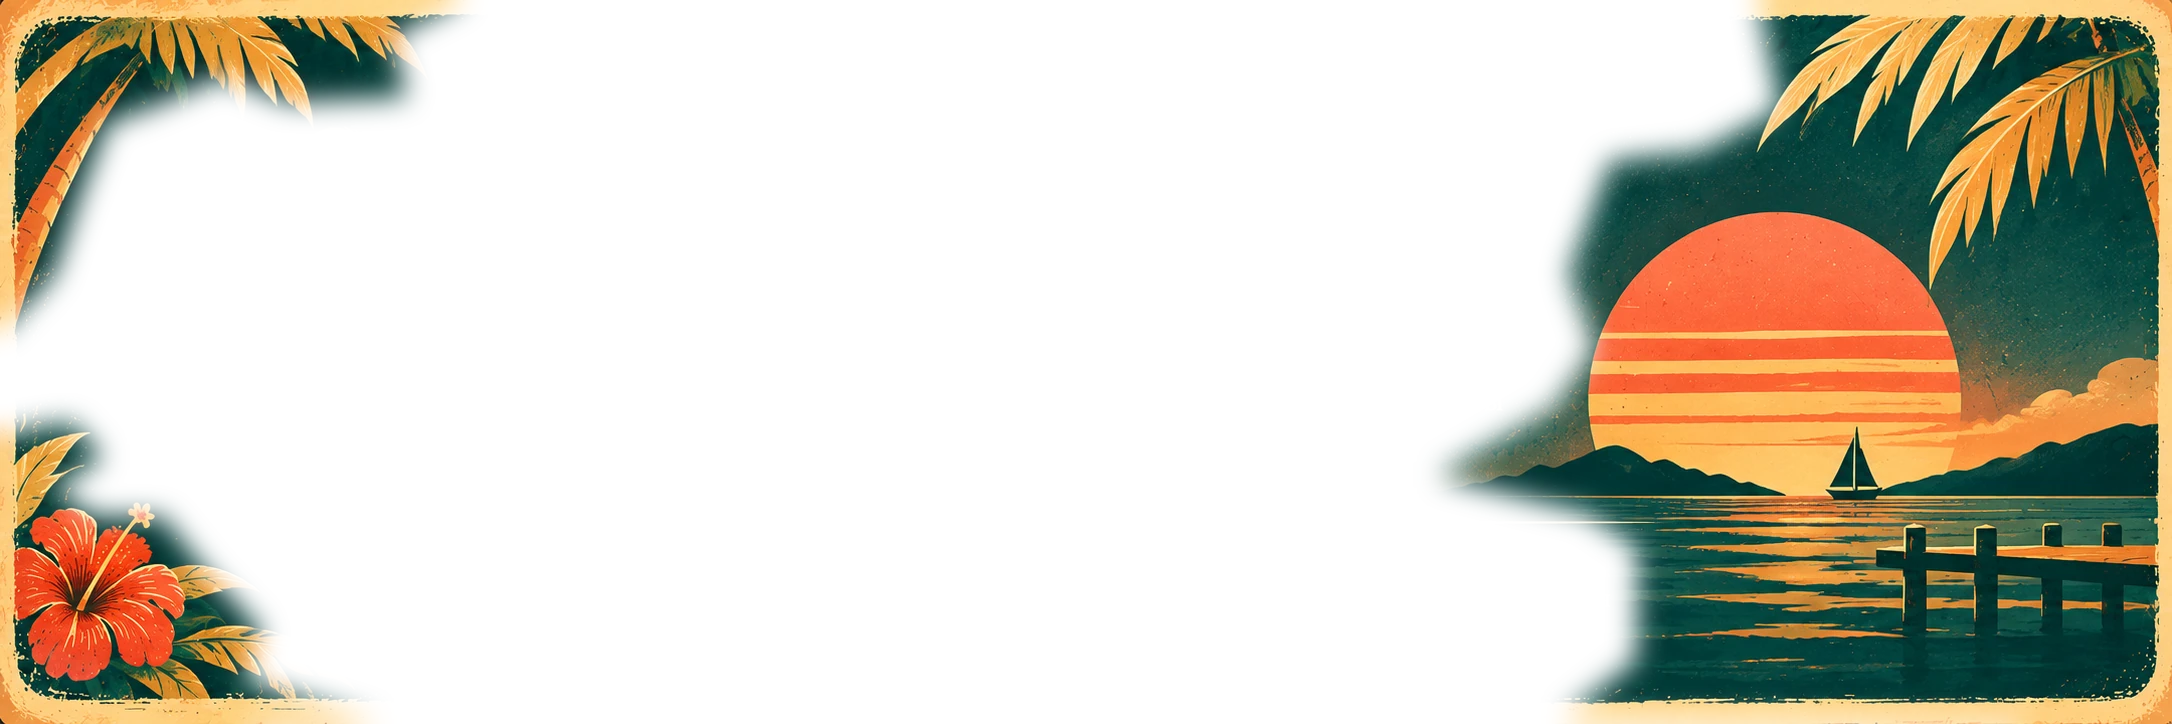
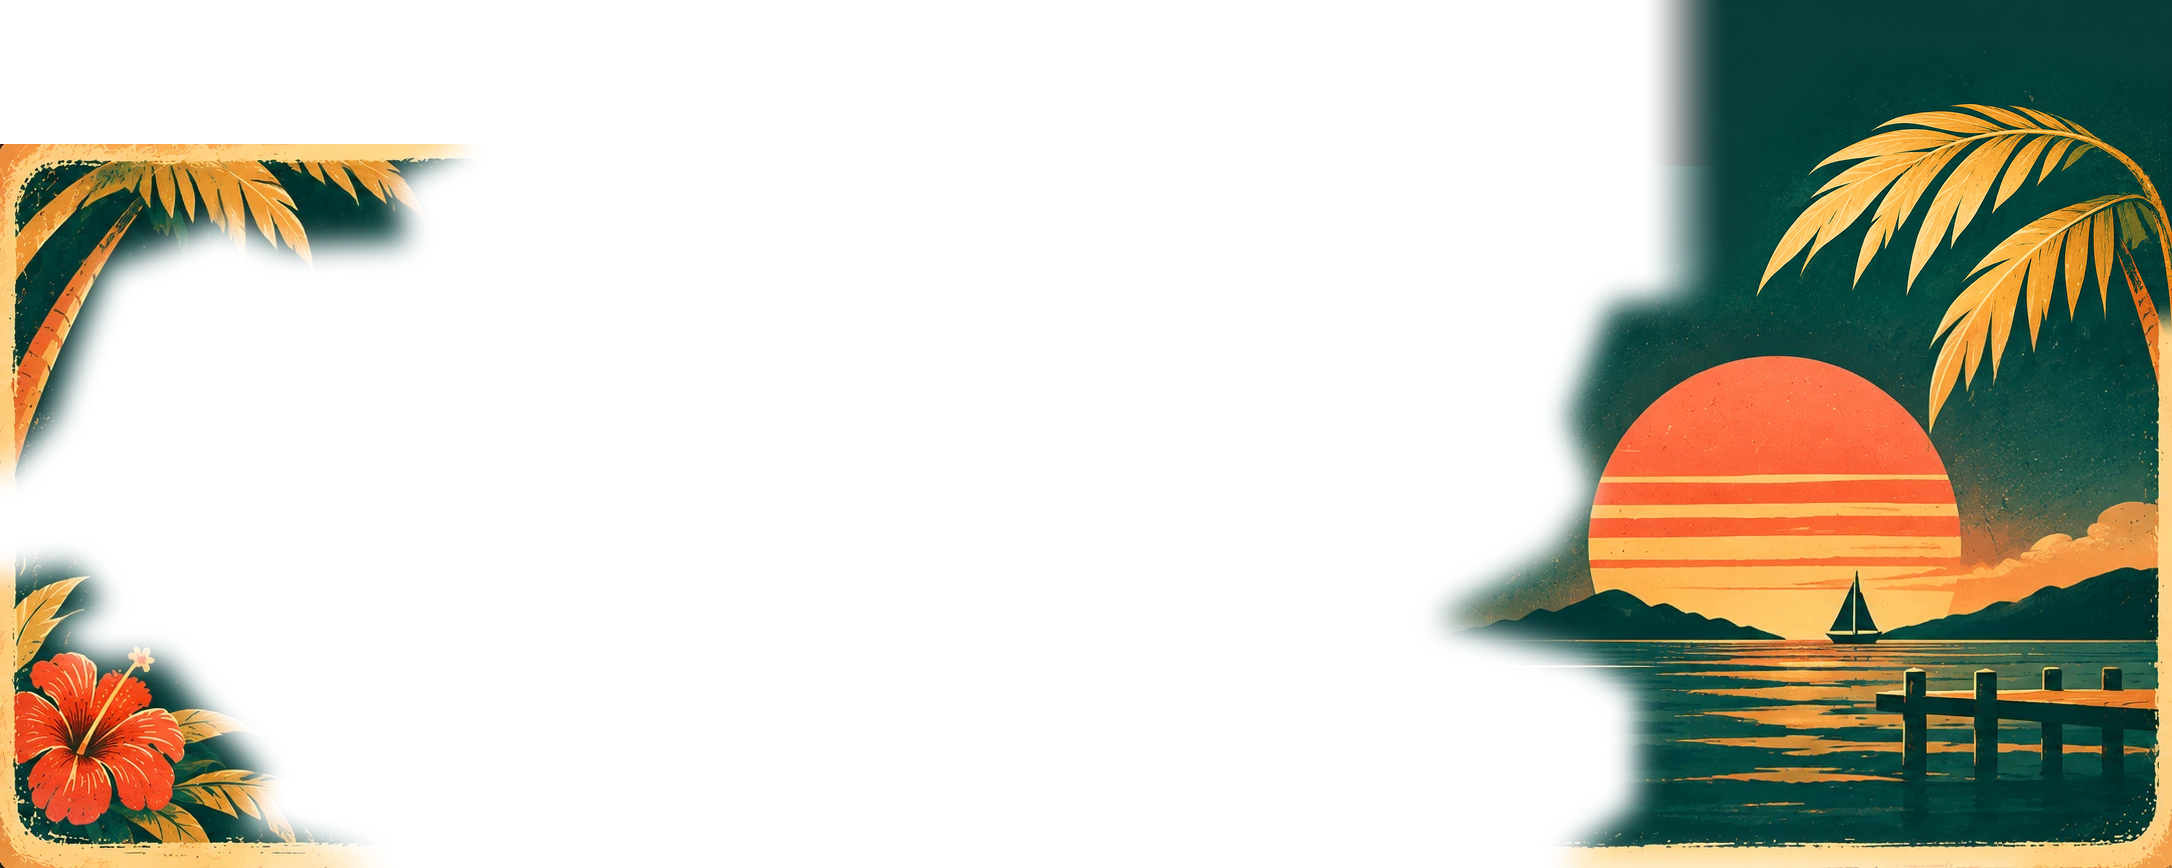
Restore the original footer palm at the paper edge

Changed region(s): [[0.6478, 0.0, 1.0, 1.0], [0.0, 0.0, 0.2159, 1.0]]

diff --git a/src/HomeFidelity.css b/src/HomeFidelity.css
@@ -341,39 +341,29 @@
   background: url('./assets/retro/poster-tear-fibres.webp') center bottom / max(100%, 1080px) 100% no-repeat;
   filter: drop-shadow(0 3px 2px #001b1877);
 }
-.sunset-pier::before {
-  content: '';
+.pier-sunset {
+  --scene-width: clamp(380px, 43%, 840px);
+  --scene-top: 18px;
+  --scene-right: -28px;
+  --scene-bleed: calc(1.1 * 144 / 724);
+  --scene-scale: calc(1.1 + var(--scene-bleed));
   position: absolute;
-  inset: 0 0 0 auto;
-  width: clamp(380px, 43%, 840px);
+  inset: calc(-1 * var(--poster-tear-height)) 0 0;
   z-index: -1;
   pointer-events: none;
-  /* One original sunset illustration only. No second canopy, no masking
-     out the sun to replace the palm with unrelated artwork. */
-  background: url('./assets/retro/fidelity/sunset-scene.webp') right -28px top -18px / auto 110% no-repeat;
-  -webkit-mask-image:
-    linear-gradient(90deg, transparent 0%, #000 38%, #000 100%),
-    linear-gradient(180deg, #000 0%, #000 83%, transparent 100%);
-  -webkit-mask-composite: source-in;
-  mask-image:
-    linear-gradient(90deg, transparent 0%, #000 38%, #000 100%),
-    linear-gradient(180deg, #000 0%, #000 83%, transparent 100%);
-  mask-composite: intersect;
-}
-/* Restore only the missing upper tips of the SAME golden palm.
-   Transparent bitmap, no second tree, no moving of the sunset artwork.
-   The lower fade joins the original fronds without covering the sun. */
-.pier-palm-extension {
-  position: absolute;
-  z-index: 0;
-  right: 0;
-  top: -20px;
-  width: clamp(230px, 15vw, 290px);
-  aspect-ratio: 310 / 202;
-  pointer-events: none;
-  background: url('./assets/retro/fidelity/sunset-palm-extension.avif') right top / contain no-repeat;
-  -webkit-mask-image: linear-gradient(to bottom, #000 0%, #000 42%, transparent 78%);
-  mask-image: linear-gradient(to bottom, #000 0%, #000 42%, transparent 78%);
+  /* Keep the 724 original rows at their existing scale and origin. The
+     extra 144 rows paint into the transparent border beneath the tear. */
+  border-block-start: var(--poster-tear-height) solid transparent;
+  background: url('./assets/retro/fidelity/sunset-scene.webp') right var(--scene-right)
+    top calc(100% * var(--scene-bleed) / (var(--scene-scale) - 1) - var(--scene-top))
+    / auto calc(100% * var(--scene-scale)) no-repeat;
+  /* Subtract the planner's existing paper silhouette from the overlap. */
+  mask:
+    linear-gradient(to left, #000 calc(var(--scene-width) * .62), transparent var(--scene-width)),
+    linear-gradient(#000 calc(83% + var(--poster-tear-height) * .17), transparent),
+    linear-gradient(#000 0 0),
+    url('./assets/retro/poster-tear-mask.webp') center top / max(100%, 1080px) var(--poster-tear-height) no-repeat;
+  mask-composite: intersect, intersect, subtract;
 }
 .sunset-pier .pier-content,
 .sunset-pier .pier-legal {
@@ -426,7 +416,7 @@
   .riv-home .apr-about__stats { grid-template-columns: repeat(2, minmax(0, 1fr)); gap: 12px 0; }
   .riv-home .apr-about__stats li:nth-child(3) { border-left: 0; }
   .pier-content, .pier-legal { width: 85%; }
-  .sunset-pier::before { width: 52%; }
+  .pier-sunset { --scene-width: 52%; }
 }
 @media (max-width: 950px) {
   .riv-mast.apr-header .mast-inner { height: 64px; }
@@ -480,12 +470,11 @@
   .terminal { width: min(100%, 38rem); margin-inline: auto; }
   .board-case { border-width: 5px; }
 
-  .sunset-pier::before {
-    width: min(85%, 420px);
-    background-position: right -18px top -12px;
-    background-size: auto 110%;
+  .pier-sunset {
+    --scene-width: min(85%, 420px);
+    --scene-right: -18px;
+    --scene-top: 12px;
   }
-  .pier-palm-extension { width: clamp(185px, 56vw, 240px); top: -18px; right: 0; }
   .pier-content { width: 100%; grid-template-columns: minmax(0, 1fr); gap: 26px; }
   .pier-brand { width: min(60%, 240px); }
   .pier-brand .apr-brand__name { font-size: clamp(2.05rem, 6.5vw, 2.85rem); }

diff --git a/src/components/SunsetPier.tsx b/src/components/SunsetPier.tsx
@@ -8,8 +8,7 @@ const columns = [
 
 export default function SunsetPier() {
   return <footer className="sunset-pier poster-stock">
-
-    <div className="pier-palm-extension" aria-hidden="true" />
+    <div className="pier-sunset" aria-hidden="true" />
     <div className="pier-content">
       <div className="pier-brand"><Brand sunset /><p>Остров бесконечного лета</p></div>
       <nav aria-label="Навигация в подвале">{columns.map(column => <div key={column.title}>
